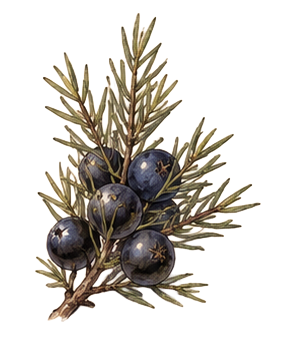
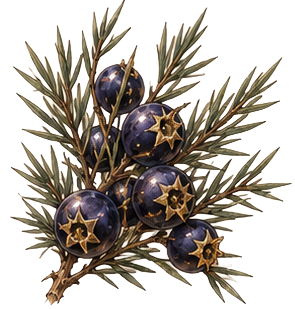
果物の画像を差し替え

diff --git a/index.html b/index.html
@@ -93,7 +93,7 @@
           <article class="home-news__item">
             <time datetime="2026-10-30">2026.10.30</time>
             <span class="home-news__tag">更新</span>
-            <a href="glossary/entries/heiramnova.html">サイト内の旧名称表記を「エラムノーバ」に更新しました。</a>
+            <a href="glossary/entries/solgrande-fruits-01.html">「エラムノーバの果物①」の画像を更新しました。</a>
           </article>
         </div>
       </div>

diff --git a/en/index.html b/en/index.html
@@ -93,7 +93,7 @@
           <article class="home-news__item">
             <time datetime="2026-10-30">2026.10.30</time>
             <span class="home-news__tag">Updated</span>
-            <a href="glossary/entries/heiramnova.html">Former name references across the site have been updated to “Heiramnova.”</a>
+            <a href="glossary/entries/solgrande-fruits-01.html">The images in “Fruits of Heiramnova I” have been updated.</a>
           </article>
         </div>
       </div>
